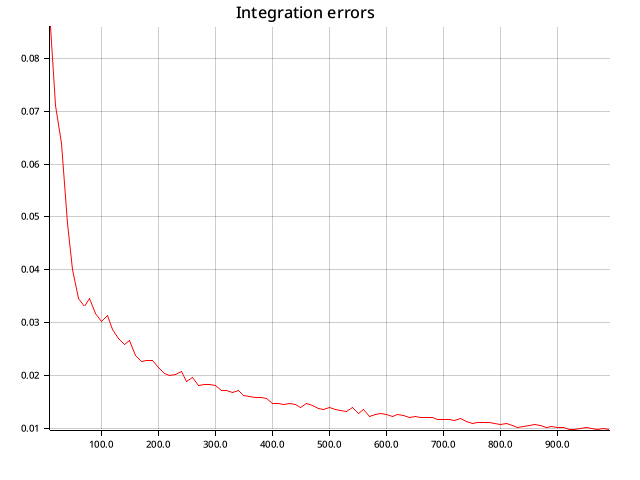
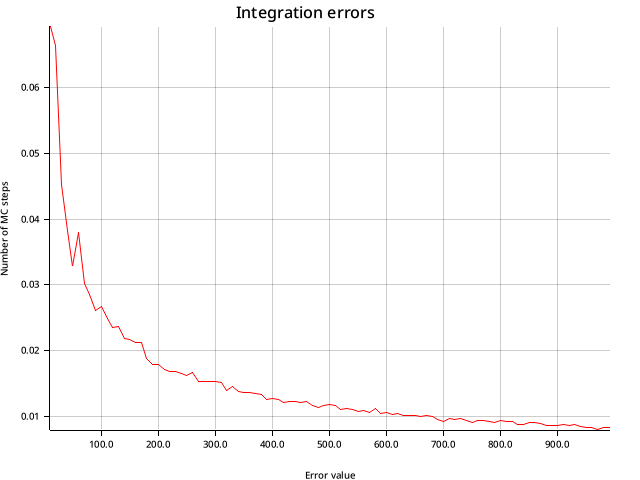
Added axes names and some decorations

diff --git a/src/main.rs b/src/main.rs
@@ -3,7 +3,7 @@ use rand::Rng;
 use std::io;
 
 fn func(x: f64) -> f64 {
-    x.sin()
+    x * x.sin()
 }
 
 fn monte_carlo(f: fn(f64) -> f64, a: f64, b: f64, n: usize) -> (f64, f64) {
@@ -51,18 +51,19 @@ fn plot(vals: Vec<(f64, f64)>) {
         .configure_mesh()
         .x_max_light_lines(0)
         .y_max_light_lines(0)
+        .x_desc("Error value")
+        .y_desc("Number of MC steps")
         .draw()
         .unwrap();
-    chart
-        .draw_series(LineSeries::new(vals, &RED))
-        .unwrap()
-        .label("Err value");
+    chart.draw_series(LineSeries::new(vals, &RED)).unwrap();
     root.present().unwrap();
     println!("Plot saved to plotters_plot.png");
 }
 
 fn main() {
-    println!("This program numerically integrates sin(x) in the user specified interval (a, b)!");
+    println!(
+        "This program numerically (using Monte Carlo method) integrates sin(x) \nin the user specified interval (a, b)!"
+    );
     println!("Please enter a:");
     let mut a_str = String::new();
     io::stdin()
@@ -83,5 +84,15 @@ fn main() {
             (n as f64, err)
         })
         .collect::<Vec<_>>();
+    let res = monte_carlo(func, a, b, vals[vals.len() - 1].0 as usize);
+    println!("The final result is {} ± {}", res.0, res.1);
     plot(vals);
+
+    println!(
+        "Plot of calculation error versus the number of MC steps is saved. \nPress Enter to quit the application."
+    );
+    let mut buffer = String::new();
+    io::stdin()
+        .read_line(&mut buffer)
+        .expect("Failed to read line");
 }
